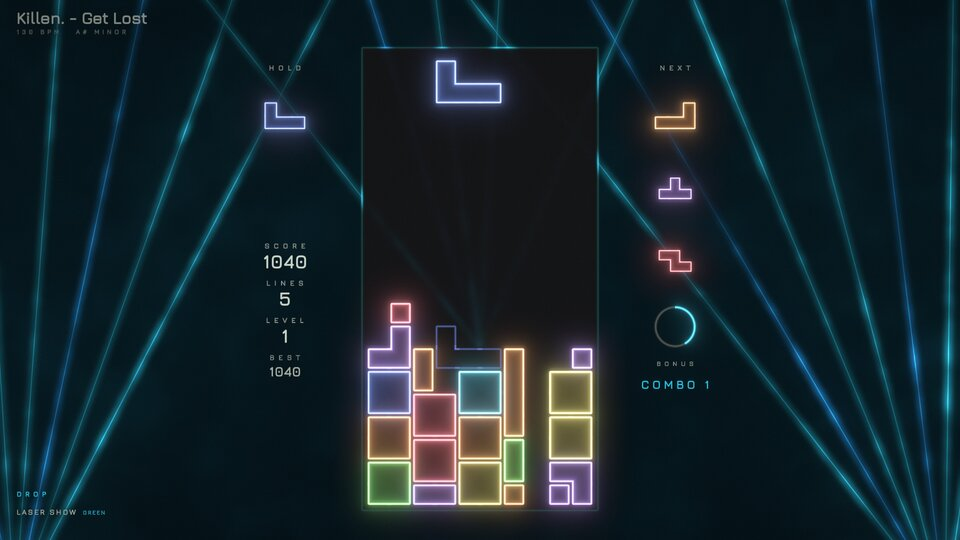
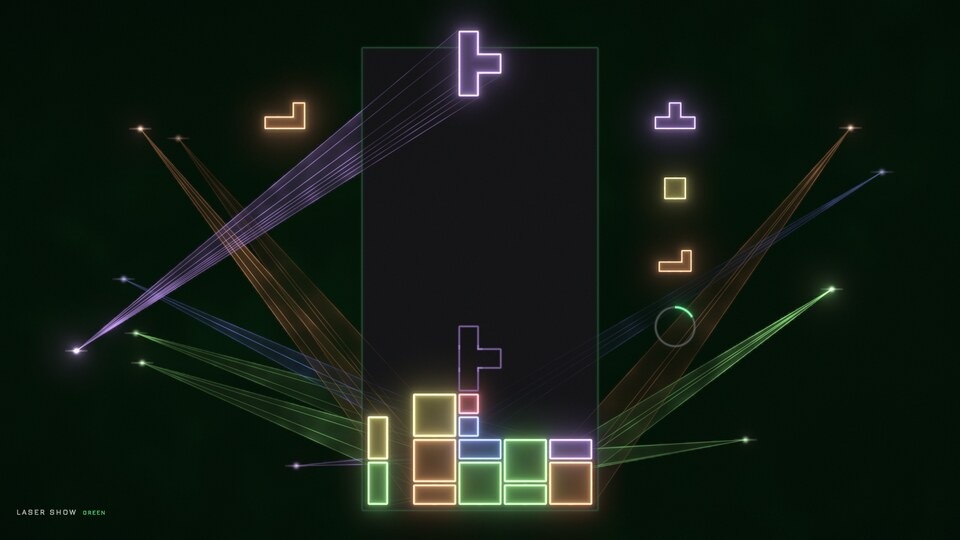
LASER SHOW v2: every piece projected by its own laser; cleared parts' projectors weaken, blink and switch off; docs and screenshot
Claude-Session: https://claude.ai/code/session_01DBPtRFs6M8Q4o53Qj6BCRE

diff --git a/src/universes/laser/laser.cpp b/src/universes/laser/laser.cpp
@@ -1,27 +1,26 @@
-// LASER SHOW: a few laser beams in a dark, hazy room.
+// LASER SHOW: a dark, hazy room where every piece is projected by its own laser.
 //
-// One world: a black room filled with a light haze, three projectors out of sight (one low on each side below the
-// frame, one hidden behind the well). Their beams are thin, pure lines of colored light, made visible only by the haze
-// they cross: uneven along their length, a soft glow around them where the haze is thick. The well is a slab of black
-// glass standing in front of the beams (they pass behind it; its rim catches each beam where it crosses); the pieces
-// are dark acrylic, edge-lit: a smoked, tinted body whose silhouette glows in the piece's color (one shape per piece,
-// no seam inside it).
+// One world: a black room filled with a light haze. Every piece (the falling one and each piece of the stack) has its
+// own small laser projector standing at a random spot of the dark room, away from the well and the HUD: a point of
+// light from which a faint sheet of light opens to the piece, thin rays running to each corner of its outline, as if
+// the laser were drawing it. The rays are made visible only by the haze they cross (uneven along their length); they
+// are fainter over the well, a slab of black glass. The pieces are dark acrylic, edge-lit: a smoked, tinted body whose
+// silhouette glows in the piece's color (one shape per piece, no seam inside it).
 //
-// The song drives the projectors, slowly: calm is one or two thin beams through faint haze, pivoting slowly; mid
-// splits them into a few beams per side that pivot with the bands (the bass leans the left fan, the highs the right
-// one) and breathe every two beats; a build gathers them toward one point above the well; a peak without a drop (a
-// chorus) opens five beams per side, swaying on the bars. A drop opens full laser fans from all three projectors in
-// the drop's own colors (each laser set has its own), bursting open from a bundle then sweeping slowly for the
-// whole drop, the haze glowing in the new color (one swell on the downbeat, settling over seconds). The light of the
-// room never pulses with the beat.
+// The song decides how many projectors are on, newest pieces first: calm keeps the falling piece's and one or two
+// more, dim; mid a few; a build switches more on as the pace rises; a peak without a drop (a chorus) most of the stack,
+// each in its piece's color. A drop switches every projector on one after the other in the drop's own color (each
+// laser set has its own), the sources sweeping slowly around their spots for the whole drop, the haze taking the
+// color (one swell on the downbeat, settling over seconds). The light of the room never pulses with the beat.
 //
-// A lock leaves a small point of light where the piece touched down; a cleared row burns out (the blocks' edges
-// flare, then a burning front eats each one from its edges in, gone in under half a second, at the real speed even in
-// slow motion); a Tetris is a salute (every projector opens one white fan, which sweeps once and closes); slow motion
-// freezes the beams in a thick, cold haze (the lasers turn ice white, like rods of light); game over switches the
-// lasers off one by one while the stack goes dark row by row. A change of universe fills the room with haze.
+// A lock leaves a small point of light where the piece touched down and the falling piece's projector stays with it;
+// a cleared row burns out (gone in under half a second, at the real speed even in slow motion) while the projectors
+// of its cells get weak, blink and switch off (a piece cleared in part keeps its projector for its other cells); a
+// Tetris flares every projector white once; slow motion freezes them in a thick, cold haze (ice white, like rods of
+// light); game over switches them off one by one while the stack goes dark row by row. A change of universe fills the
+// room with haze.
 //
-// Cost: the haze glow is drawn at a reduced resolution (at most 360 lines); the beams' cores, the well, the blocks
+// Cost: the haze and the projectors' sheets are drawn at a reduced resolution (at most 360 lines); the rays, the well, the blocks
 // and the text at full resolution.
 //
 // Layout contract: a flat orthographic view at the reference camera's scale on the board plane, so the well, the
@@ -1486,7 +1485,7 @@ void LaserUniverse::render(const Frame& f, GLuint fbo) {
 
 const UniverseEntry& universe_laser() {
     static const UniverseEntry e{
-        "LASER SHOW", "a few laser beams in a dark haze, edge-lit acrylic pieces",
+        "LASER SHOW", "every piece projected by its own laser in a dark haze, edge-lit acrylic pieces",
         [] { return std::unique_ptr<Universe>(new LaserUniverse()); },
         // Electronic, driving songs suit it best (a steady tempo, bass, dynamics: drops to open the fans); quiet
         // acoustic songs still play, with a beam or two.

diff --git a/src/universes/laser/shaders.hpp b/src/universes/laser/shaders.hpp
@@ -2,10 +2,10 @@
 // LASER SHOW's shaders (see laser.cpp). Everything is drawn in linear HDR (the beams' cores and the pieces' lit edges
 // go above 1 and bloom), then tone-mapped in the post.
 //
-// The beams are rays in the board plane from projectors out of frame, seen through a haze: HAZE_FS draws the light
-// the haze scatters around them (a soft glow and a wide, faint halo, both following the haze's density) at a reduced
-// resolution; BEAM_VS / BEAM_FS draw each beam's thin core at full resolution, its brightness following the same haze.
-// WELL_FS lays the well over them, a slab of black glass whose rim catches the beams passing behind it.
+// Each piece is projected by its own laser, seen through a haze: HAZE_FS draws the haze itself at a reduced
+// resolution, CONE_VS / CONE_FS each projector's faint sheet of light into it (from the lens to the piece's outline);
+// BEAM_VS / BEAM_FS draw the thin rays to the outline's corners at full resolution, their brightness following the
+// same haze. WELL_FS is the well, a slab of black glass.
 
 namespace laser_shaders {
 

diff --git a/docs/universes.md b/docs/universes.md
@@ -92,7 +92,7 @@ Dark polished stone and ceramic mended with gold: one slab of stone under a soft
 
 ![LASER SHOW](universes/laser.jpg)
 
-A few laser beams in a dark, hazy room. Three projectors stay out of sight (one low on each side below the frame, one hidden behind the well); their beams are thin, pure lines of light made visible only by the haze they cross, so each one is uneven along its length (bright where the haze is thick, nearly gone in the gaps, the haze drifting slowly) with a soft glow around it. The beams always pass behind the well, a slab of black glass whose rim catches each beam where it crosses, and they fade behind the HUD's text, previews and gauge. The pieces are dark acrylic, edge-lit: a smoked, tinted body whose silhouette glows in the piece's color, one shape per piece with no seam inside it (two pieces never join). Seven laser sets, each with its own drop lasers and its own seven acrylics (GREEN, its drop cyan; RGB WHITE, its drop split into red, green and blue; MAGENTA CYAN, gold; RED, violet; BLUE VIOLET, ice white; AMBER, green; AQUA, rose), from the key, mode and brightness (`--universe "laser:magenta cyan"`). Calm is one thin beam (and a fainter one on the other side) pivoting very slowly through faint haze; mid splits them into two beams a side that pivot with the bands (the bass leans the left fan, the highs the right one) and breathe every two beats; a build gathers the beams toward one point above the well; a peak without a drop (a chorus) opens five beams a side that cross above the well and sway on the bars. A drop is the signature: on its downbeat full laser fans burst open from all three projectors (a bundle spreading into a fan in under a second, then slower and slower) in the drop's own color, the haze glowing in that color with one swell that settles over seconds, and the two side fans keep sweeping slowly in their own corners for the whole drop, back to the song's lasers when it ends. The light of the room never pulses with the beat; beams move slowly, the stack and the HUD never move. A lock leaves a small point of light where the piece touched down; a cleared row burns out (the blocks' edges flare, then a hot burning front eats each block from its edges in, gone in under half a second, at the real speed even in slow motion; nothing is drawn over the row); a Tetris is a salute (every projector opens one whitened fan that sweeps once and closes); slow motion freezes the beams in a thick, cold haze, the lasers ice white like rods of light; game over switches the lasers off one by one while the stack goes dark row by row from the top; it leaves and enters with the haze filling the room. The haze glow is drawn at a reduced resolution (at most 360 lines), the beams' thin cores at full resolution. The bonus gauge is a ring of laser light drawn clockwise as it fills. Its HUD font is Jura (Light and Medium, SIL Open Font License, `src/universes/laser/OFL-Jura.txt`).
+A dark, hazy room where every piece is projected by its own laser. Each piece (the falling one and each piece of the stack) has a small projector standing at a random spot of the room, away from the well and the HUD: a point of light from which a faint sheet of light opens toward the piece, with thin rays running to each corner of its outline, as if the laser were drawing it. The rays are made visible only by the haze they cross, so each one is uneven along its length (bright where the haze is thick, nearly gone in the gaps, the haze drifting slowly); they are fainter over the well, a slab of black glass, and fade behind the HUD's text, previews and gauge. The pieces are dark acrylic, edge-lit: a smoked, tinted body whose silhouette glows in the piece's color, one shape per piece with no seam inside it (two pieces never join). Seven laser sets, each with its own drop lasers and its own seven acrylics (GREEN, its drop cyan; RGB WHITE, its drop split into red, green and blue; MAGENTA CYAN, gold; RED, violet; BLUE VIOLET, ice white; AMBER, green; AQUA, rose), from the key, mode and brightness (`--universe "laser:magenta cyan"`). The song decides how many projectors are on, the newest pieces first and the older ones dimmer: calm keeps the falling piece's and one or two more, dim, in faint haze; mid a few, drifting slowly around their spots and breathing every two beats; a build switches more on as the pace rises; a peak without a drop (a chorus) lights most of the stack, each projector in its piece's color. A drop is the signature: on its downbeat every projector switches on, one after the other, in the drop's own color, the haze glowing in that color with one swell that settles over seconds, and the sources sweep slowly around their spots for the whole drop, back to the pieces' colors when it ends. The light of the room never pulses with the beat; the projectors move slowly, the stack and the HUD never move. A lock leaves a small point of light where the piece touched down, and the falling piece's projector stays with it; a cleared row burns out (the blocks' edges flare, then a hot burning front eats each block from its edges in, gone in under half a second, at the real speed even in slow motion; nothing is drawn over the row) while the projectors of its cells get weak, blink and switch off (a piece cleared only in part keeps its projector for its other cells); a Tetris flares every projector white once; slow motion freezes the projectors in a thick, cold haze, the lasers ice white like rods of light; game over switches the projectors off one by one while the stack goes dark row by row from the top; it leaves and enters with the haze filling the room. The haze and the projectors' sheets of light are drawn at a reduced resolution (at most 360 lines), the thin rays at full resolution. The bonus gauge is a ring of laser light drawn clockwise as it fills. Its HUD font is Jura (Light and Medium, SIL Open Font License, `src/universes/laser/OFL-Jura.txt`).
 
 ## Transitions between universes
 
@@ -142,7 +142,7 @@ others are ideas waiting to be built. To build one, see [Adding a universe](addi
 | 11 | WHITE ROOM | Pure white space, soft shadows only, product-design minimalism | Shadows lengthen with the phases; beats press the blocks gently | ✅ |
 | 12 | RISOGRAPH | Two-ink riso print (fluo pink + blue), soft ink gradients, halftone pieces | Kicks breathe the inks' density; peak prints cut-paper forms in a hot fourth ink; clears are torn-off strips | ✅ |
 | 13 | KINTSUGI | Black marble, gold-filled cracks | Cleared rows crack and fall away; gold veins spread through the marble at peak | ✅ |
-| 14 | LASER SHOW | Volumetric laser beams in haze, a few at a time | Beams pivot slowly with the bands; drops open full laser fans; cleared cells burn out | ✅ |
+| 14 | LASER SHOW | Every piece projected by its own laser in a haze | More projectors on as the song rises; drops switch them all to the drop color; cleared parts blink off | ✅ |
 | 15 | OP ART | Black and white Bridget Riley stripes and moirés, calm and never flickering | The stripe field bends around the stack; beats ripple it gently; peak makes the whole field undulate | |
 | 16 | SHADOW PLAY | Silhouettes behind a backlit paper screen, warm lamp | Puppets dance on the beat; the lamp flickers; peak brings more puppets | |
 | 17 | BLUEPRINT | Cyanotype technical drawing, white construction lines, dimension marks | Locks get dimensioned; mid draws an elevation of a machine; peak animates it; cleared cells fade like lifted ink | |

diff --git a/README.md b/README.md
@@ -37,7 +37,7 @@ song, and songs change universe with a transition on the beat.
 <td><img src="https://raw.githubusercontent.com/Gregwar/zentris/main/docs/universes/kintsugi.jpg"><br><b>KINTSUGI</b>: dark polished stone, ceramic mended with gold</td>
 </tr>
 <tr>
-<td><img src="https://raw.githubusercontent.com/Gregwar/zentris/main/docs/universes/laser.jpg"><br><b>LASER SHOW</b>: a few laser beams in a dark haze</td>
+<td><img src="https://raw.githubusercontent.com/Gregwar/zentris/main/docs/universes/laser.jpg"><br><b>LASER SHOW</b>: every piece projected by its own laser</td>
 <td></td>
 </tr>
 </table>
